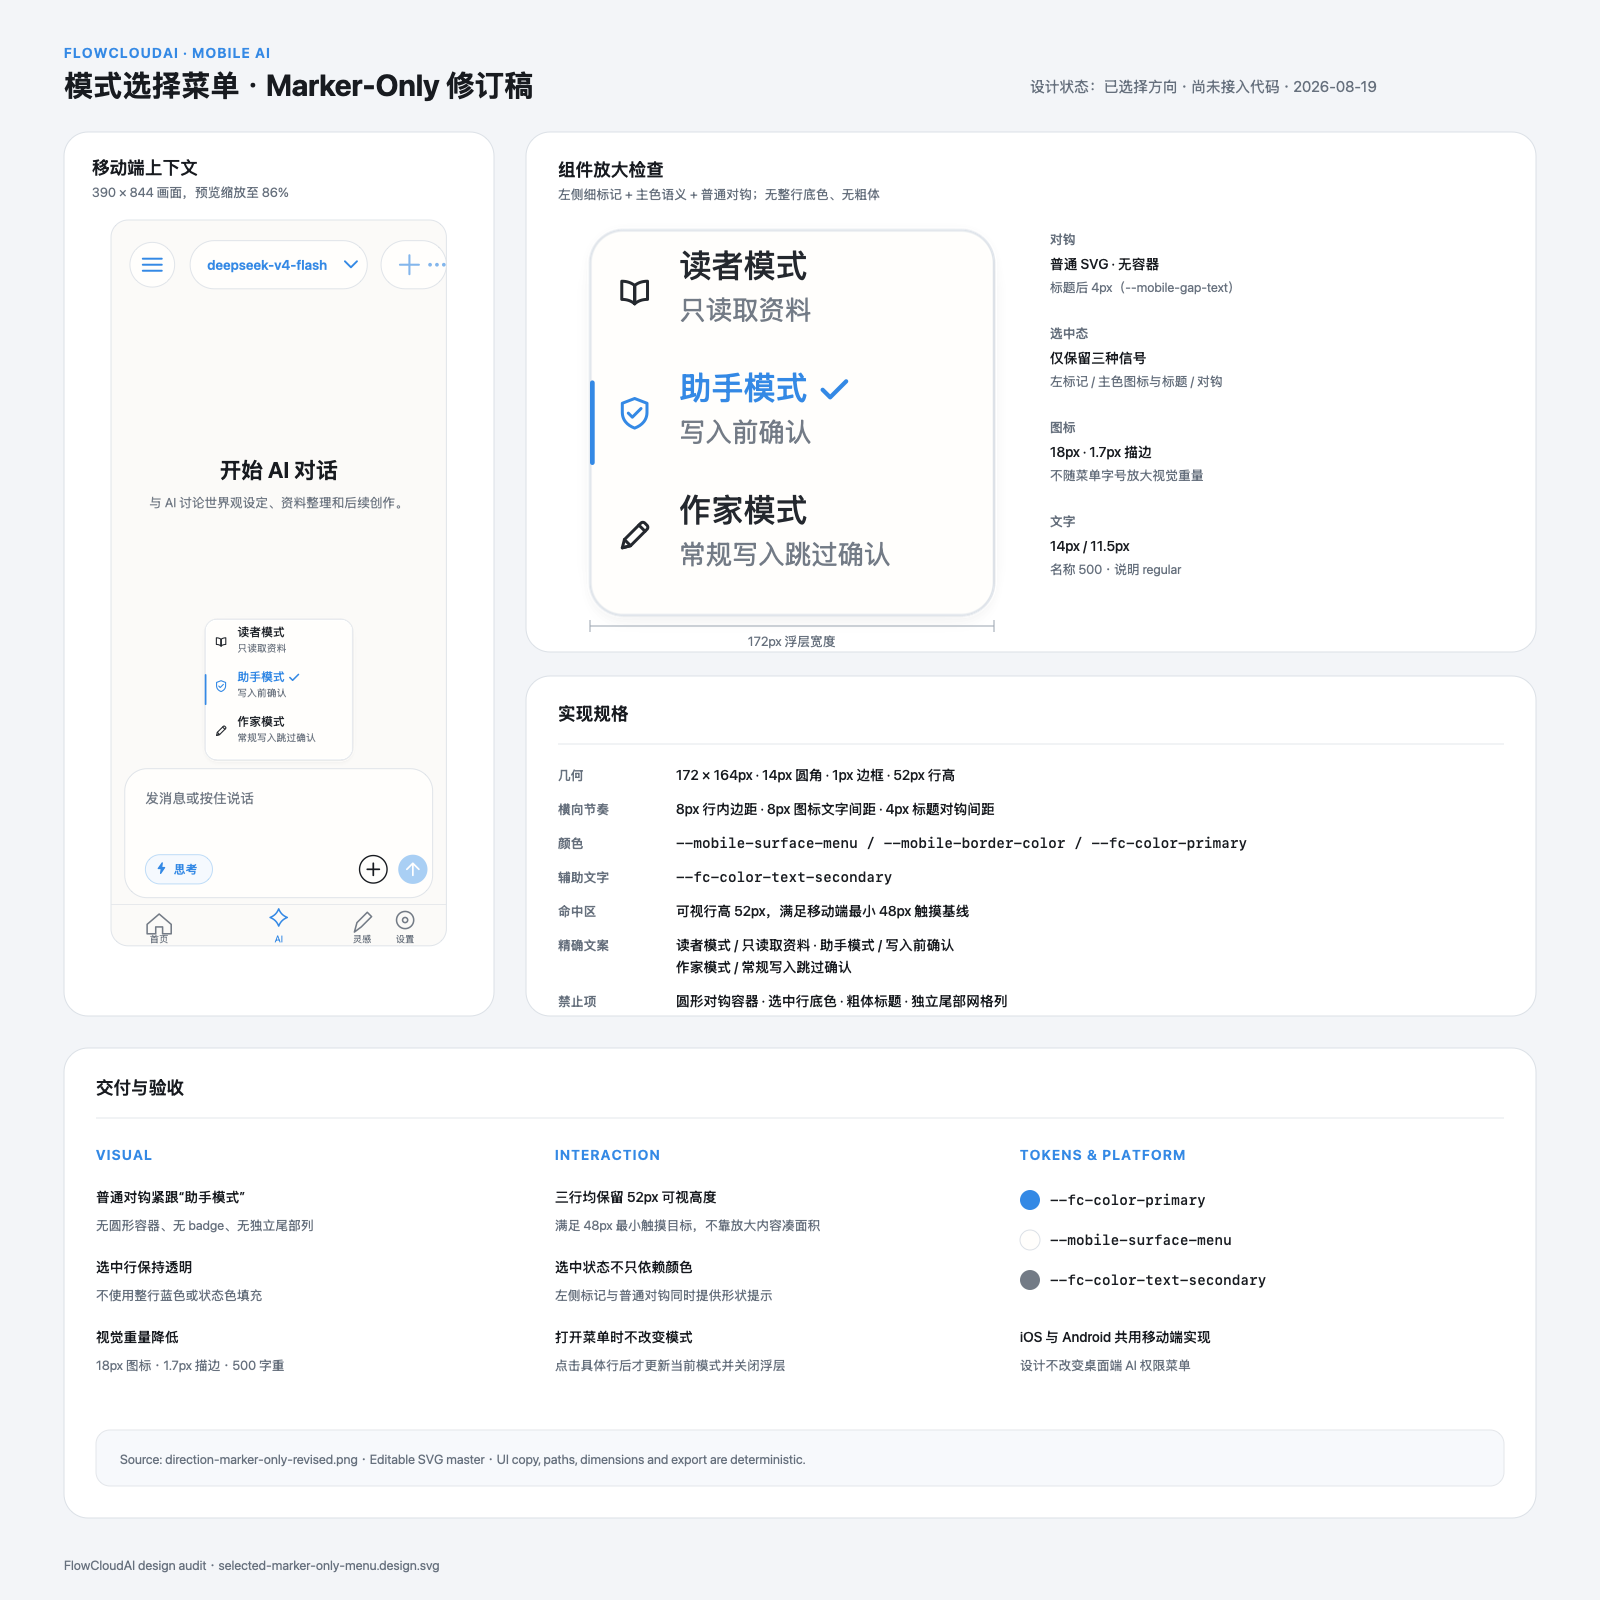
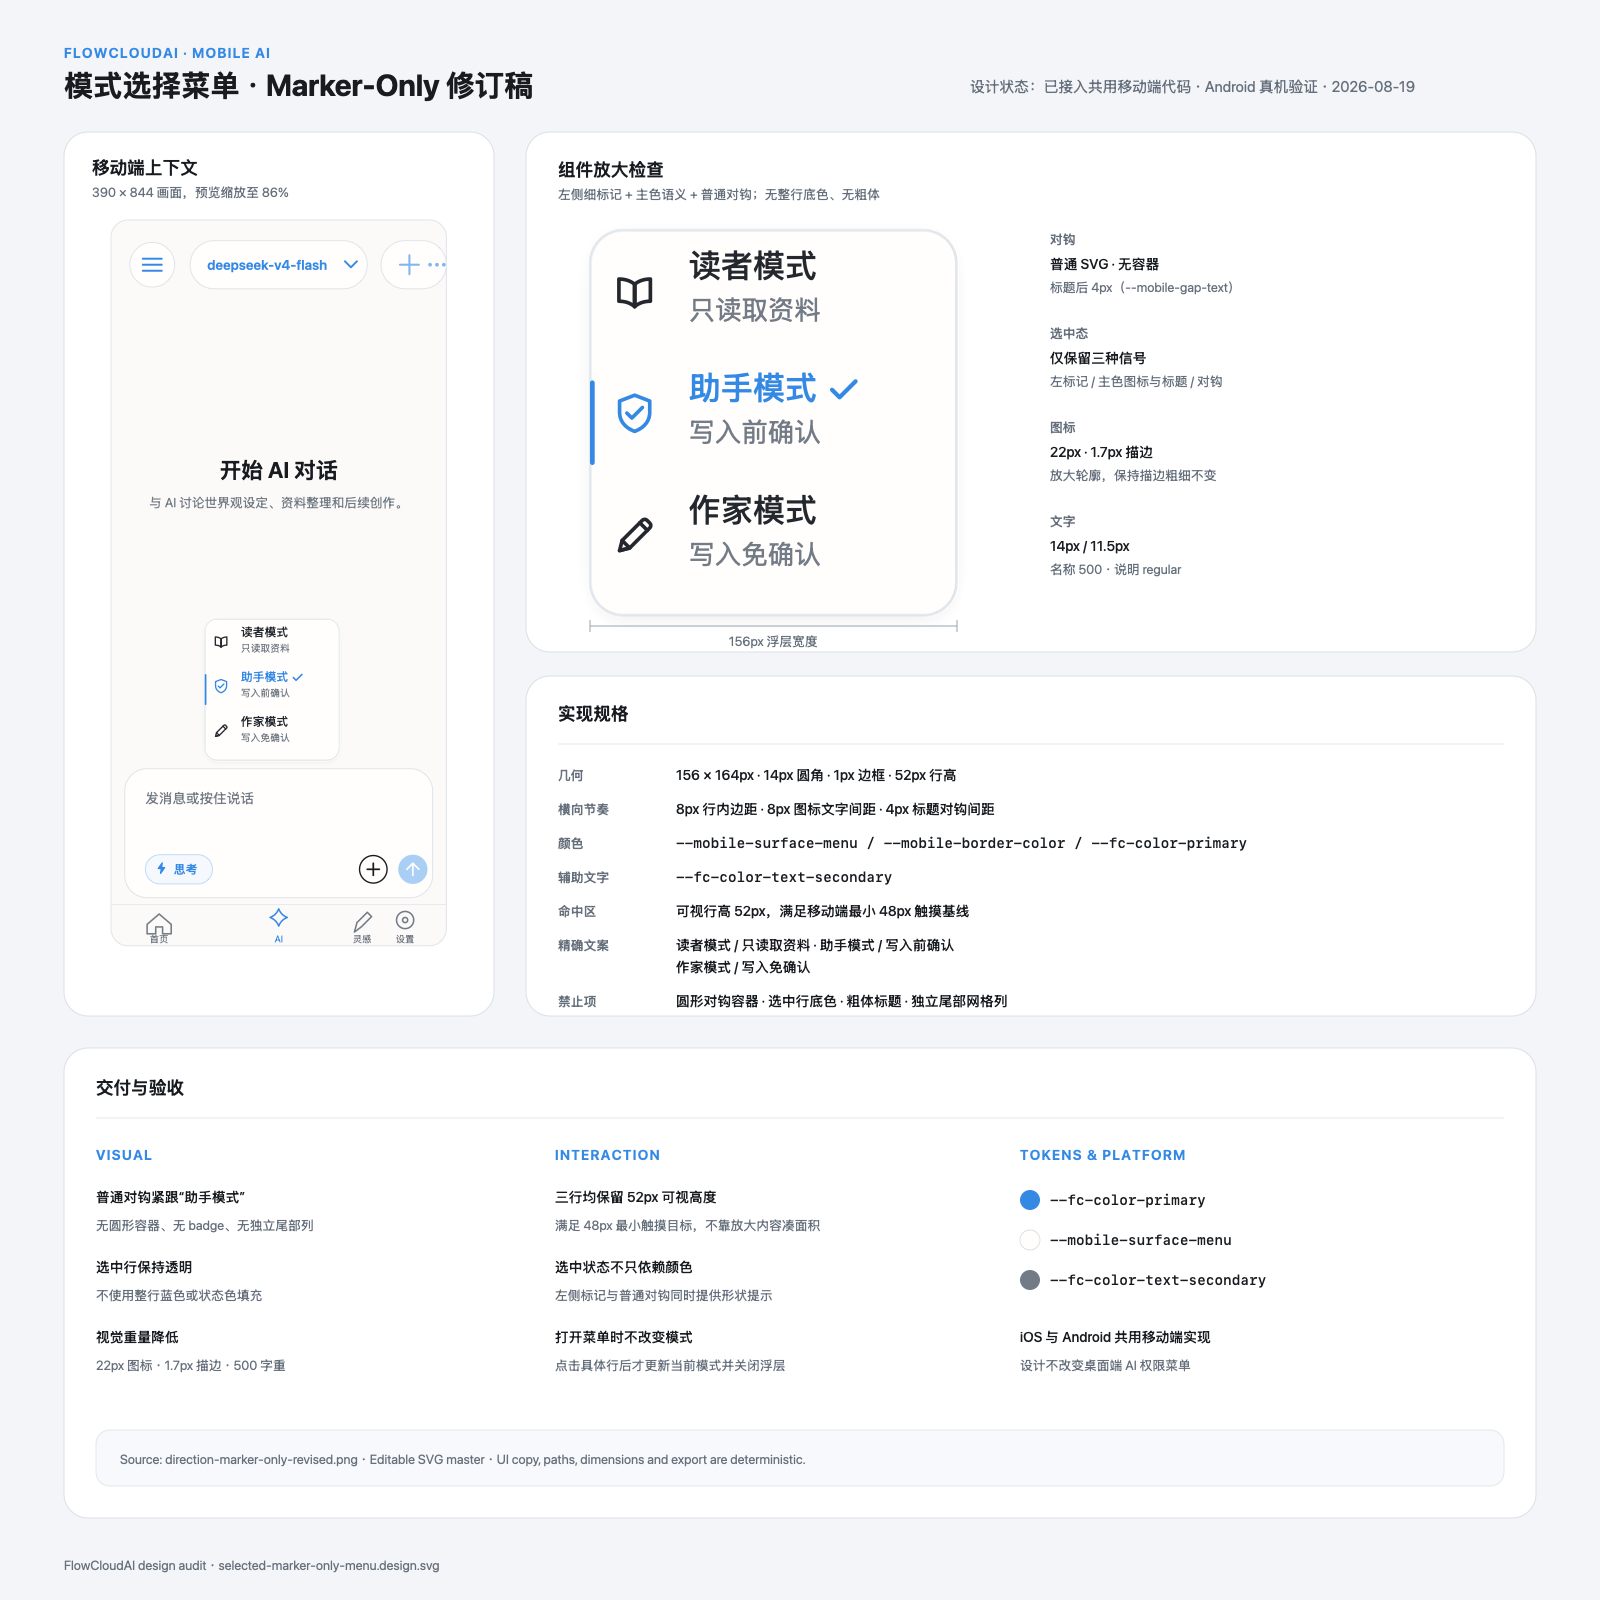
优化移动端 AI 模式选择菜单

diff --git a/src/app/mobile/pages/MobileAiChat.css b/src/app/mobile/pages/MobileAiChat.css
@@ -369,38 +369,68 @@
 }
 
 .mobile-ai-tool-mode-menu {
-    width: min(10.75rem, calc(100% - var(--mobile-anchored-menu-left) - 1rem));
-    padding: var(--mobile-gap-inline);
+    --mobile-ai-tool-mode-title-size: calc(0.875rem * var(--mobile-font-scale));
+    --mobile-ai-tool-mode-description-size: calc(0.71875rem * var(--mobile-font-scale));
+
+    width: min(9.75rem, calc(100% - var(--mobile-anchored-menu-left) - 1rem));
+    padding: var(--mobile-gap-text);
     border-radius: var(--mobile-radius-card);
 }
 
 .mobile-ai-tool-mode-menu__row {
-    grid-template-columns: 2.05rem minmax(0, 1fr);
-    min-height: var(--mobile-tap-min);
-    padding: var(--mobile-gap-inline) var(--mobile-gap-item);
-    border-radius: var(--mobile-radius-card);
+    position: relative;
+    grid-template-columns: 1.375rem minmax(0, 1fr);
+    column-gap: var(--mobile-gap-inline);
+    min-height: calc(var(--mobile-tap-min) + var(--mobile-gap-text));
+    padding: var(--mobile-gap-text) var(--mobile-gap-inline);
 }
 
 .mobile-ai-tool-mode-menu__row.active {
-    background: color-mix(in srgb, var(--fc-color-primary) 9%, transparent);
+    background: transparent;
     color: var(--fc-color-primary);
-    font-weight: var(--mobile-weight-strong);
 }
 
-.mobile-ai-tool-mode-menu__row--reader.active {
-    background: color-mix(in srgb, var(--fc-color-success-bg) 72%, transparent);
-    color: var(--fc-color-success);
+.mobile-ai-tool-mode-menu__row.active::before {
+    position: absolute;
+    top: 50%;
+    left: 0;
+    width: 2px;
+    height: calc(var(--mobile-tap-min) - var(--mobile-gap-item));
+    border-radius: var(--fc-radius-full);
+    background: var(--fc-color-primary);
+    content: '';
+    transform: translateY(-50%);
 }
 
-.mobile-ai-tool-mode-menu__row--writer.active {
-    background: color-mix(in srgb, var(--fc-color-warning-bg) 72%, transparent);
-    color: var(--fc-color-warning);
+.mobile-ai-tool-mode-menu__row .mobile-anchored-menu__text {
+    gap: 0;
+}
+
+.mobile-ai-tool-mode-menu__row .mobile-anchored-menu__text > .mobile-ai-tool-mode-menu__label {
+    display: flex;
+    align-items: center;
+    gap: var(--mobile-gap-text);
+    font-size: var(--mobile-ai-tool-mode-title-size);
+    font-weight: var(--mobile-weight-medium);
+    line-height: var(--mobile-leading-tight);
+}
+
+.mobile-ai-tool-mode-menu__row .mobile-anchored-menu__text small {
+    font-size: var(--mobile-ai-tool-mode-description-size);
+    font-weight: var(--mobile-weight-normal);
+    line-height: var(--mobile-leading-tight);
 }
 
 .mobile-ai-tool-mode-menu__row .mobile-ai-svg {
-    width: 1.8rem;
-    height: 1.8rem;
-    stroke-width: 1.8;
+    width: 1.375rem;
+    height: 1.375rem;
+}
+
+.mobile-ai-tool-mode-menu__label .mobile-check-icon {
+    width: 0.875rem;
+    height: 0.875rem;
+    flex: 0 0 auto;
+    stroke-width: 2;
 }
 
 .mobile-ai-model-menu__divider {

diff --git a/src/app/mobile/pages/MobileAiComposer.tsx b/src/app/mobile/pages/MobileAiComposer.tsx
@@ -47,7 +47,7 @@ export default function MobileAiComposer(p: Props) {
         </div></footer>
 
         <MobileAnchoredMenu open={p.toolModeMenuOpen} onClose={() => p.onToolModeMenuOpen(false)} anchorRef={p.toolModeMenuRef} containerRef={p.pageRef} ariaLabel="切换写入模式" className="mobile-ai-tool-mode-menu" align="left" placement="top">
-            <div className="mobile-anchored-menu__group">{p.toolModeOptions.map(option => <button key={option.mode} type="button" role="menuitemradio" aria-checked={p.toolAccessMode === option.mode} className={`mobile-anchored-menu__row mobile-ai-tool-mode-menu__row mobile-ai-tool-mode-menu__row--${option.mode}${p.toolAccessMode === option.mode ? ' active' : ''}`} disabled={p.isStreaming} onClick={() => { p.onToolModeMenuOpen(false); p.onToolModeChange(option.mode) }}><span className="mobile-anchored-menu__icon" aria-hidden="true"><MobileAiIcon type={option.mode}/></span><span className="mobile-anchored-menu__text"><span>{option.label}</span><small>{option.description}</small></span></button>)}</div>
+            <div className="mobile-anchored-menu__group">{p.toolModeOptions.map(option => { const active = p.toolAccessMode === option.mode; return <button key={option.mode} type="button" role="menuitemradio" aria-checked={active} className={`mobile-anchored-menu__row mobile-ai-tool-mode-menu__row mobile-ai-tool-mode-menu__row--${option.mode}${active ? ' active' : ''}`} disabled={p.isStreaming} onClick={() => { p.onToolModeMenuOpen(false); p.onToolModeChange(option.mode) }}><span className="mobile-anchored-menu__icon" aria-hidden="true"><MobileAiIcon type={option.mode} strokeWidth={1.7}/></span><span className="mobile-anchored-menu__text"><span className="mobile-ai-tool-mode-menu__label">{option.label}{active ? <MobileCheckIcon/> : null}</span><small>{option.description}</small></span></button> })}</div>
         </MobileAnchoredMenu>
 
         <MobileAnchoredMenu open={p.modelMenuOpen} onClose={() => p.modelMenuMode === 'plugins' ? p.onModelMenuMode('models') : p.onCloseModelMenu()} anchorRef={p.modelMenuRef} containerRef={p.pageRef} ariaLabel={p.modelMenuMode === 'plugins' ? '切换 AI 插件' : '切换 AI 模型'} className="mobile-ai-model-menu" align="left" rightBoundaryRef={p.topActionsRef} rightBoundaryGap={8}>

diff --git a/src/app/mobile/pages/MobileAiChatUi.tsx b/src/app/mobile/pages/MobileAiChatUi.tsx
@@ -13,7 +13,7 @@ export const CONVERSATION_LONG_PRESS_MOVE_TOLERANCE = 12
 export const AI_DOCUMENT_CONTEXT_EXTENSIONS = ['txt', 'md', 'markdown', 'csv', 'tsv', 'json', 'jsonl', 'xml', 'yaml', 'yml', 'toml', 'ini', 'log', 'js', 'ts', 'jsx', 'tsx', 'py', 'rs', 'go', 'java', 'c', 'cpp', 'h', 'hpp', 'cs', 'php', 'rb', 'swift', 'kt', 'sql', 'html', 'htm', 'css', 'scss', 'less', 'sh', 'bat', 'ps1', 'env', 'doc', 'docx', 'xls', 'xlsx', 'ppt', 'pptx', 'pdf']
 export const AI_DOCUMENT_CONTEXT_EXTENSION_SET = new Set(AI_DOCUMENT_CONTEXT_EXTENSIONS)
 export const AI_TOOL_ACCESS_LABELS: Record<AiToolAccessMode, string> = {reader: '读者模式', assistant: '助手模式', writer: '作家模式'}
-export const AI_TOOL_ACCESS_DETAILS: Record<AiToolAccessMode, string> = {reader: '只读取资料', assistant: '写入前确认', writer: '常规写入跳过确认'}
+export const AI_TOOL_ACCESS_DETAILS: Record<AiToolAccessMode, string> = {reader: '只读取资料', assistant: '写入前确认', writer: '写入免确认'}
 export const AI_TOOL_ACCESS_OPTIONS: AiToolAccessMode[] = ['reader', 'assistant', 'writer']
 export const AI_CONVERSATION_FILTER_OPTIONS: Array<{key: AiConversationFilter; label: string}> = [{key: 'all', label: '全部'}, {key: 'default', label: '通用'}, {key: 'character', label: '角色聊天'}, {key: 'report', label: '矛盾检测'}]
 export const AI_CONVERSATION_STATUS_OPTIONS: Array<{key: AiConversationStatusFilter; label: string}> = [{key: 'active', label: '当前'}, {key: 'archived', label: '归档'}]
@@ -69,10 +69,10 @@ const AI_TOOL_ACCESS_ICON_PATHS: Record<AiToolAccessMode, string[]> = {
     ],
 }
 
-export function MobileAiIcon({type}: {type: IconType}) {
+export function MobileAiIcon({type, strokeWidth}: {type: IconType; strokeWidth?: number}) {
     if (type === 'reader' || type === 'assistant' || type === 'writer') {
         return (
-            <svg className="mobile-ai-svg" viewBox="0 0 24 24" focusable="false" aria-hidden="true" style={{strokeWidth: 2.1}}>
+            <svg className="mobile-ai-svg" viewBox="0 0 24 24" focusable="false" aria-hidden="true" style={{strokeWidth: strokeWidth ?? 2.1}}>
                 {AI_TOOL_ACCESS_ICON_PATHS[type].map(path => <path key={path} d={path}/>)}
             </svg>
         )

diff --git a/designs/audits/mobile-ai-mode-menu-redesign-2026-08-19/implementation-design-qa.md b/designs/audits/mobile-ai-mode-menu-redesign-2026-08-19/implementation-design-qa.md
@@ -1,0 +1,46 @@
+# 移动端 AI 模式菜单实现 QA
+
+- 日期：2026-08-19
+- 设计基准：`selected-marker-only-menu.design.svg`
+- 实机：Redmi 24129RT7CC（Android，1220 × 2712 截图）
+- 实现范围：`app_main` 共用移动端 React/CSS，iOS 与 Android 生效；本轮仅完成 Android 原生运行验证
+
+## 对比证据
+
+- 设计稿与实机并排：`implementation-comparison.png`
+- Android 完整实机截图：`implementation-android-real-device.png`
+
+## 视觉核对
+
+| 项目 | 结果 | 说明 |
+| --- | --- | --- |
+| 容器 | 通过 | 根据真机反馈由 172px 收紧为 156px 语义宽度；保留 14px 语义圆角和 1px 边界，浮层玻璃效果沿用既有移动端菜单实现 |
+| 行高与命中区 | 通过 | 三行均为 52px 可视/命中高度，高于 48px 移动端基线 |
+| 选中态 | 通过 | 无整行填色；仅左侧 2px 主色标记、主色图标/标题、普通 SVG 对钩 |
+| 对钩位置 | 通过 | 对钩直接位于标题后，间距使用 `--mobile-gap-text`，无独立尾部网格列或容器 |
+| 图标 | 通过 | 根据首轮真机反馈由 18px 调整为 22px；模式菜单单独使用 1.7px 描边，不改变输入区胶囊图标的既有描边 |
+| 字体层级 | 通过 | 标题 14px/500、说明 11.5px/400，并随 `--mobile-font-scale` 缩放 |
+| 文案 | 通过 | 读者模式/只读取资料；助手模式/写入前确认；作家模式/写入免确认 |
+
+## 交互核对
+
+- 点击“读者模式”后菜单关闭，输入区模式胶囊更新为“读者”。
+- 再次打开菜单并选择“助手模式”后，状态恢复为验证前的助手模式。
+- 菜单使用 `role="menuitemradio"`、`aria-checked`，选中态不只依赖颜色。
+
+## 自动验证
+
+- `node --test --experimental-strip-types ./src/app/mobile/mobileAccessibility.test.mjs`：16/16 通过
+- `npm run lint`：通过
+- `npm run build`：通过（保留项目既有大 chunk 警告）
+- `git diff --check`：通过
+
+## 缺陷分级
+
+- P0：无
+- P1：无
+- P2：无
+
+## 未覆盖项
+
+- iOS 由相同 touch-density 移动端组件与样式覆盖，但本轮未在 iPhone 上进行运行时截图验收。

diff --git a/designs/audits/mobile-ai-mode-menu-redesign-2026-08-19/selected-marker-only-menu.manifest.md b/designs/audits/mobile-ai-mode-menu-redesign-2026-08-19/selected-marker-only-menu.manifest.md
@@ -4,23 +4,23 @@
 - 固定预览：`selected-marker-only-menu.design.png`
 - 选择来源：`direction-marker-only-revised.png`
 - 目标画面：390 × 844 移动端 AI 对话页
-- 组件尺寸：172 × 164px
+- 组件尺寸：156 × 164px
 - 状态：助手模式选中
 - 平台范围：iOS 与 Android 共用的移动端页面
-- 代码状态：尚未接入
+- 代码状态：已接入共用移动端代码，并完成 Android 真机验证
 
 ## 精确内容
 
 - 读者模式 / 只读取资料
 - 助手模式 / 写入前确认
-- 作家模式 / 常规写入跳过确认
+- 作家模式 / 写入免确认
 
 ## 设计决策
 
 - 右侧选中标记为普通对钩，不带圆形、背景或 badge。
 - 对钩与“助手模式”标题之间为 4px，不占独立尾部列。
 - 选中态不使用整行底色，通过左侧 2px 标记、主色图标/标题和对钩表达。
-- 所有图标采用 18px 视觉尺寸与 1.7px 描边。
+- 所有图标采用 22px 视觉尺寸与 1.7px 描边。
 - 52px 行高保留不小于 48px 的移动端触摸基线。
 
 ## 导出说明
